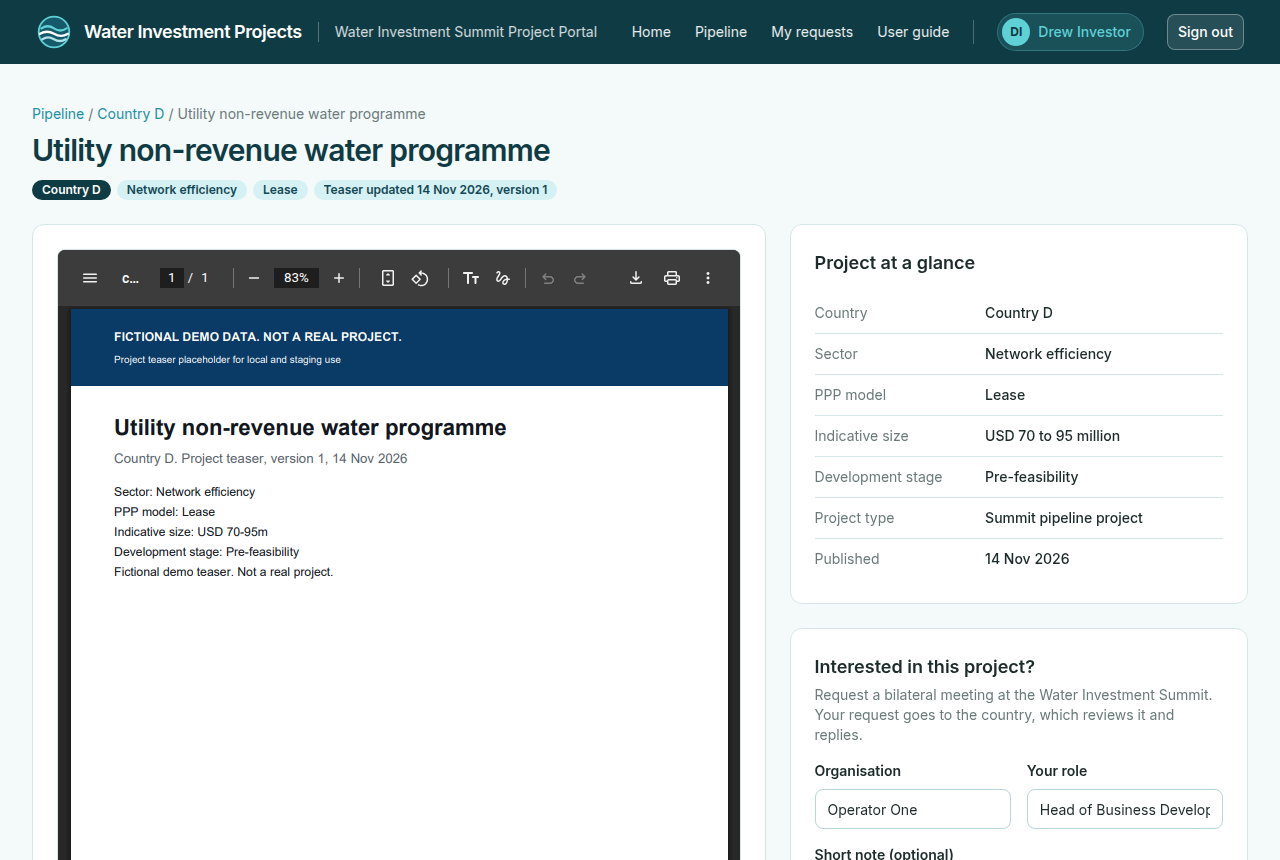
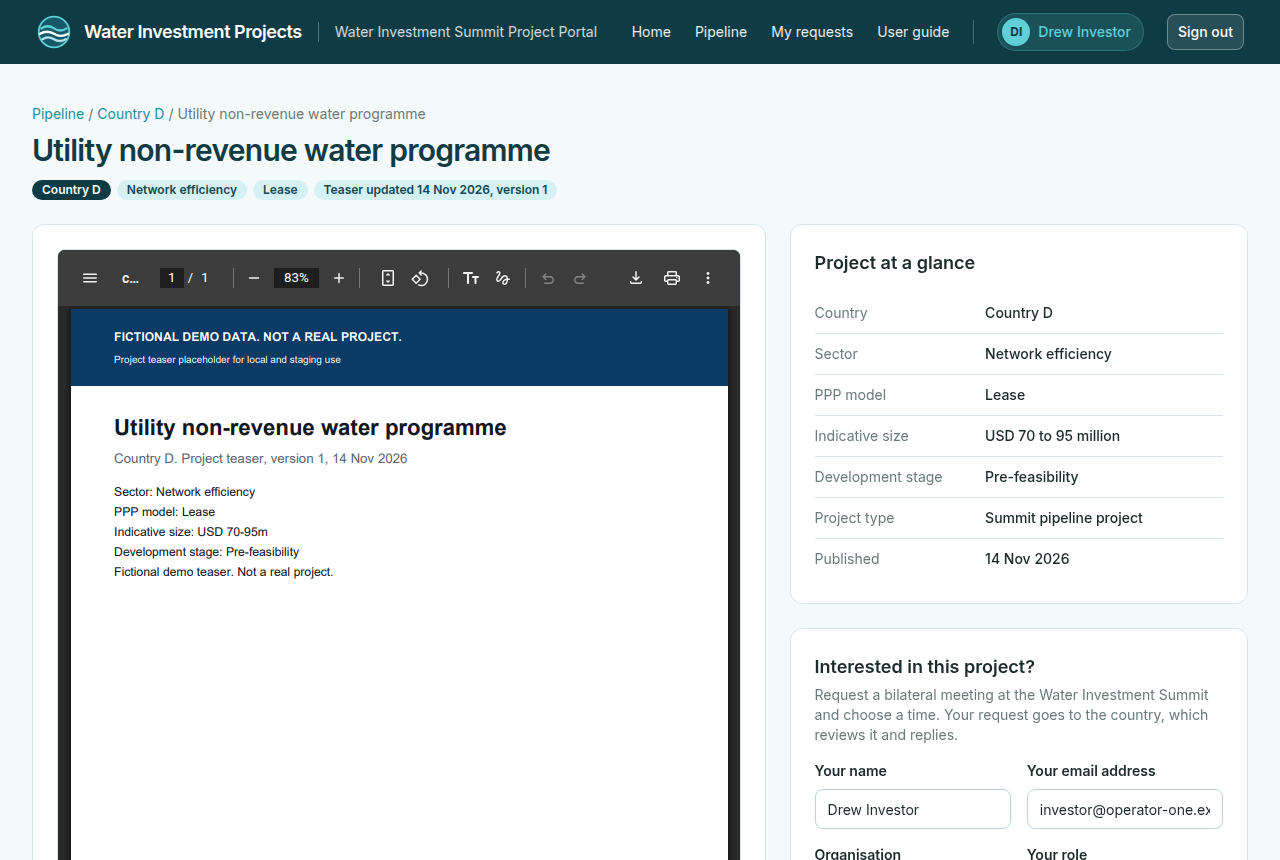
User guide: meeting times, attendee details and government organisation
Steps for governments (represented organisation), country focal points
(chosen time, accept books it) and investors (attendee, meeting time held
until the country answers); Meeting schedule for the Summit team. Four
screenshots retaken with the fictional demo data.

diff --git a/src/components/guide/user-guide.tsx b/src/components/guide/user-guide.tsx
@@ -201,7 +201,10 @@ export function UserGuide() {
         </p>
         <ol>
           <li>Open the upload link. Your country is already filled in.</li>
-          <li>Enter your full name and your email address.</li>
+          <li>
+            Enter your name, your email address and the government organisation
+            you represent (for example the ministry, utility or agency).
+          </li>
           <li>
             Add your project teasers: up to {MAX_TEASERS_PER_SUBMISSION} at a
             time. For each one, choose the sector and select the file: PDF or
@@ -246,14 +249,14 @@ export function UserGuide() {
           </li>
           <li>
             <strong>Meeting requests</strong> lists the requests from investors
-            and operators for your country&apos;s projects, with their
-            organisation, role and note. Use the filter to see new, accepted or
-            declined requests.
+            and operators for your country&apos;s projects: who will attend,
+            their organisation and role, their note and the meeting time they
+            chose. Use the filter to see new, accepted or declined requests.
           </li>
           <li>
             Select <strong>Accept</strong> or <strong>Decline</strong> for each
             request. Your decision is final and the investor sees it in their
-            list. Meeting times and rooms are arranged with the Summit team.
+            list. Accepting books the chosen time and room; declining frees it.
           </li>
           <li>
             <strong>Download CSV</strong> gives you the list as a spreadsheet,
@@ -284,8 +287,12 @@ export function UserGuide() {
           </li>
           <li>
             To meet the country, use <strong>Request a meeting</strong> on the
-            project page: give your organisation, your role and, if you wish, a
-            short note. You can have one open request per project.
+            project page: the name and email address of the person who will
+            attend, your organisation and role, and, if you wish, a short note.
+            Choose a <strong>Meeting time</strong>: 30-minute bilateral meetings
+            in Room A or Room B, UAE time. Times you or the country already have
+            are not offered. The time is held for you until the country answers.
+            You can have one open request per project.
           </li>
           <li>
             <strong>My requests</strong> shows each request and its status:
@@ -311,9 +318,10 @@ export function UserGuide() {
           alt="My requests, with the status of each request"
         />
         <p>
-          When a country accepts, the Summit team is in touch to arrange the
-          meeting at the {appConfig.summit.name}. Please use the teasers only
-          for the purposes set out in the acknowledgement.
+          When a country accepts, your meeting time and room are booked; you see
+          them under <strong>My requests</strong>. If every time was taken, the
+          Summit team contacts you about a time. Please use the teasers only for
+          the purposes set out in the acknowledgement.
         </p>
       </Section>
 
@@ -347,6 +355,10 @@ export function UserGuide() {
             <strong>Accounts</strong>: create accounts one by one or from a CSV
             list, hand over temporary passwords personally, issue new ones, and
             deactivate accounts.
+          </li>
+          <li>
+            <strong>Meeting schedule</strong>: the grid of Room A and Room B,
+            with the times held for pending requests and the meetings booked.
           </li>
           <li>
             <strong>Countries and contacts</strong>, <strong>Exports</strong>:
